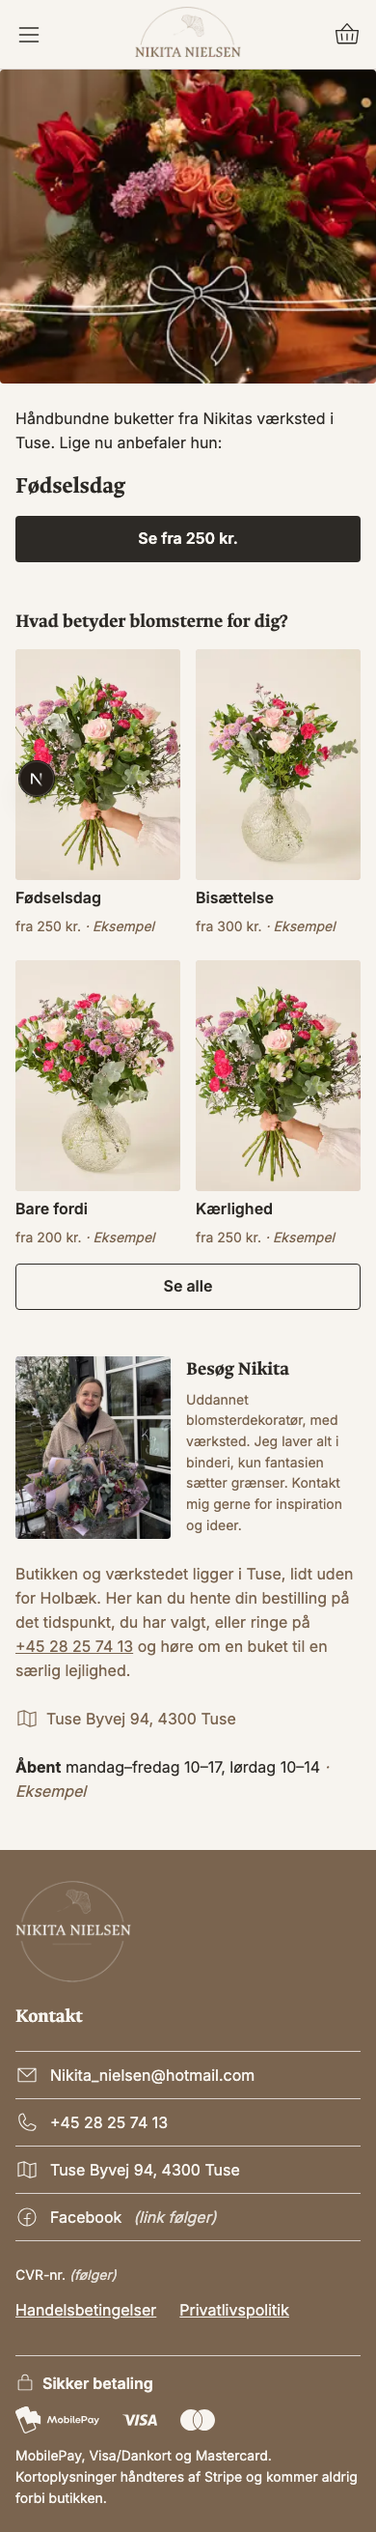
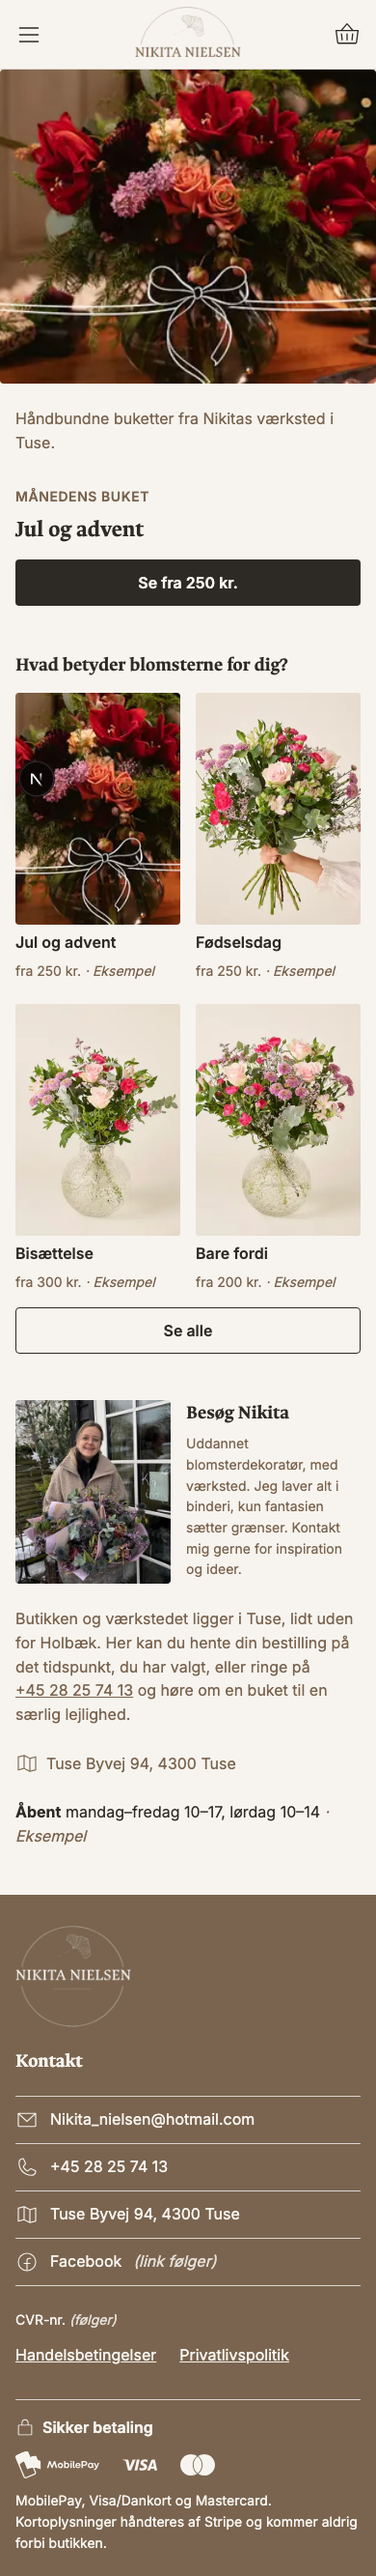
Recommend Jul og advent under a label; shop line on its own (DD-38); interview questions from the occasion-page explore

Changed region(s): [[0.0, 0.0, 1.0, 0.9889]]

diff --git a/backend/src/db/seed.ts b/backend/src/db/seed.ts
@@ -27,6 +27,8 @@ export const seedOccasions: {
   name: string;
   intro: string;
   prices: Record<Tier, number>;
+  /** Set where the position must not follow the list (added later). */
+  sortOrder?: number;
 }[] = [
   {
     slug: "fodselsdag",
@@ -57,6 +59,16 @@ export const seedOccasions: {
     name: "Tak",
     intro: "En buket som tak, i tre størrelser.",
     prices: { lille: 250, mellem: 350, stor: 500 },
+  },
+  // Added 27 Nov (Felix): the season's recommendation for December, first in
+  // the owner's order so the front page features it (DD-04 fallback) until
+  // she can choose in the back office (DD-23). Base prices, a placeholder.
+  {
+    slug: "jul-og-advent",
+    name: "Jul og advent",
+    intro: "Buketter til jul og advent i tre størrelser.",
+    prices: { lille: 250, mellem: 350, stor: 500 },
+    sortOrder: 5,
   },
 ];
 
@@ -94,7 +106,7 @@ export async function seed(db: Db) {
         name: o.name,
         intro: o.intro,
         description: commonDescription,
-        sortOrder: (i + 1) * 10,
+        sortOrder: o.sortOrder ?? (i + 1) * 10,
       })),
     )
     .onConflictDoNothing({ target: occasions.slug });

diff --git a/frontend/src/app/page.tsx b/frontend/src/app/page.tsx
@@ -39,14 +39,14 @@ export default async function Home() {
       </div>
 
       <section className={styles.featured} aria-labelledby="anbefaling">
-        {/* The page's main heading for search engines (P10), styled as the
-            plain intro line of the design. */}
+        {/* The page's main heading for search engines (P10), a quiet line of
+            its own; the recommendation is a separate group below (DD-38). */}
         <h1 className={styles.intro}>
-          Håndbundne buketter fra Nikitas værksted i Tuse. Lige nu anbefaler
-          hun:
+          Håndbundne buketter fra Nikitas værksted i Tuse.
         </h1>
         {featured && (
-          <>
+          <div className={styles.pick}>
+            <p className={styles.label}>Månedens buket</p>
             <h2 id="anbefaling" className={styles.featuredName}>
               {featured.name}
             </h2>
@@ -56,7 +56,7 @@ export default async function Home() {
             >
               Se fra {kroner(featured.fromPriceOere)}
             </Link>
-          </>
+          </div>
         )}
       </section>
 

diff --git a/frontend/src/app/page.module.css b/frontend/src/app/page.module.css
@@ -16,16 +16,37 @@
 .featured {
   display: flex;
   flex-direction: column;
-  gap: var(--space-2);
+  gap: var(--space-4);
   padding: var(--space-3) var(--page-inline) var(--space-6);
 }
 
 .intro {
-  color: var(--color-text);
+  color: var(--color-text-muted);
   font-family: var(--font-body);
   font-size: var(--text-base);
   font-weight: var(--weight-regular);
   line-height: var(--leading-body);
+}
+
+/* The recommendation as one group: label, name, button (DD-38, from
+   Felix's v2 frame). */
+.pick {
+  display: flex;
+  flex-direction: column;
+  gap: var(--space-1);
+}
+
+.label {
+  color: var(--color-text-muted);
+  font-size: var(--text-sm);
+  font-weight: var(--weight-semibold);
+  letter-spacing: 0.04em;
+  text-transform: uppercase;
+}
+
+.pick .primary,
+.pick .secondary {
+  margin-top: var(--space-1);
 }
 
 .featuredName {

diff --git a/backend/src/catalog/routes.test.ts b/backend/src/catalog/routes.test.ts
@@ -33,11 +33,11 @@ describe("GET /occasions", () => {
     expect(res.statusCode).toBe(200);
     expect(res.headers["cache-control"]).toContain("s-maxage=60");
     const { occasions: list } = res.json();
-    expect(list).toHaveLength(5);
+    expect(list).toHaveLength(6);
     expect(list[0]).toEqual({
-      slug: "fodselsdag",
-      name: "Fødselsdag",
-      intro: "Buketter til fødselsdagen i tre størrelser.",
+      slug: "jul-og-advent",
+      name: "Jul og advent",
+      intro: "Buketter til jul og advent i tre størrelser.",
       fromPriceOere: 25000,
       soldOut: false,
       placeholder: true,

diff --git a/backend/src/catalog/queries.test.ts b/backend/src/catalog/queries.test.ts
@@ -37,13 +37,14 @@ describe("listOccasions", () => {
   it("lists the seeded occasions in sort order with the lowest price", async () => {
     const list = await listOccasions(db);
     expect(list.map((o) => o.slug)).toEqual([
+      "jul-og-advent",
       "fodselsdag",
       "bisaettelse",
       "bare-fordi",
       "kaerlighed",
       "tak",
     ]);
-    expect(list[1]).toMatchObject({
+    expect(list[2]).toMatchObject({
       name: "Bisættelse",
       fromPriceOere: 30000,
       soldOut: false,

diff --git a/frontend/src/lib/stand-ins.ts b/frontend/src/lib/stand-ins.ts
@@ -24,6 +24,7 @@ const ORDER = ["fodselsdag", "bisaettelse", "bare-fordi", "kaerlighed", "tak"];
 
 /** A stand-in for an occasion's main photo, varied so the grid is not one picture. */
 export function standInFor(slug: string): StandIn {
+  if (slug === "jul-og-advent") return HERO_STAND_IN;
   const i = ORDER.indexOf(slug);
   return BOUQUETS[(i === -1 ? 0 : i) % BOUQUETS.length]!;
 }

diff --git a/frontend/e2e/home.spec.ts b/frontend/e2e/home.spec.ts
@@ -6,7 +6,7 @@ test("home page loads in Danish with the intro as its heading", async ({
   await page.goto("/");
   await expect(page.locator("html")).toHaveAttribute("lang", "da");
   await expect(page.getByRole("heading", { level: 1 })).toContainText(
-    "Håndbundne buketter fra Nikitas værksted i Tuse",
+    "Håndbundne buketter fra Nikitas værksted i Tuse.",
   );
 });
 

diff --git a/docs/process/2026-11-19-storefront.md b/docs/process/2026-11-19-storefront.md
@@ -104,3 +104,4 @@ Felix's education is design-oriented, so every key layout choice is his (CLAUDE.
   - The new text uses only given facts; the opening hours come from the back-office data, marked "Eksempel" like other placeholders. A small helper writes them in Danish ("mandag–fredag 10–17, lørdag 10–14"), with 3 tests.
   - Checked: 0 requests to Google before tapping "Vis kort", the map loads after; no horizontal scroll at 390 and 1280; the payment marks were first too small to read (MobilePay at 20 px) and were enlarged; the phone number in the new paragraph broke across lines and now stays together. 28 unit tests and 11 phone tests pass.
 - **Grouping, footer split, map out (27 Nov, DD-34 changed, DD-36, DD-37).** Felix: the recommendation lacked Gestalt grouping and ran on "until the about me section"; the about section still looked bulky; the footer should split with a bigger logo. Fixed by proximity alone (16 px inside a group, 48/64 px between groups), not by lines or panels; the map came out the same day it went in, the address moved above the opening hours on one line; the footer splits from tablet up (the phone keeps one column for the reason found with footer variant A on 23 Nov). The unused map component was deleted. Checked at 390 and 1280 px, no horizontal scroll; phone tests pass.
+- **"Jul og advent" and the text under the hero (27 Nov, DD-38).** Felix asked for the seasonal recommendation now and found the two lines under the hero awkward. "Jul og advent" did not exist; it joined the placeholder catalogue with base prices and sort order 5, ahead of the others, so the existing rows kept their order (two backend tests that listed five occasions were updated, not loosened, and the spec scenarios now say "every visible occasion"). Three ways to read the text were offered; Felix chose the label over the name from his v2 frame. The interview guide gained the two questions from the occasion-page explore (two bouquets to one recipient; colour and flower wishes), whether the card costs anything, and the chocolates (Felix knows she sells them).

diff --git a/docs/research/2026-11-27-owner-interview-guide.md b/docs/research/2026-11-27-owner-interview-guide.md
@@ -58,8 +58,10 @@ Ask with the screen or the slip in front of her, so the question has a concrete 
 | 5 | "Hvor mange afhentninger kan du have klar på én time?" | 4 per hour | Pickups per slot (8) |
 | 6 | "Hvilke anledninger sælger du mest til, og hvad koster de i lille, mellem og stor?" | 5 occasions, example prices | The occasion list and prices (4), the featured bouquet |
 | 7 | "Fortæl om de sidste tre bestillinger på Messenger: hvad spurgte kunden om, før de bestilte?" | Nothing | What the occasion page is missing |
-| 8 | "Hvad skriver folk på kortet, og hvor langt plejer det at være?" | 200 characters | The card-message limit |
-| 9 | "Når nogen ringer og bestiller: hvad spørger du om, og hvad sælger du ekstra? Til hvilken pris?" | No add-ons | The till screen fields, add-ons (11) |
+| 8 | "Hvad skriver folk på kortet, og hvor langt plejer det at være? Koster kortet noget?" | 200 characters, price unknown | The card-message limit; whether "+ Tilføj et kort" may say "gratis" |
+| 8a | "Hvis nogen bestiller to buketter på én gang, er det så til samme modtager?" | One delivery per cart, card per bouquet | Whether one delivery per cart holds; card and wishes per bouquet (decided 27 Nov) |
+| 8b | "Har du haft bestillinger, hvor kunden ønskede en bestemt farve eller ikke ville have en bestemt blomst? Hvad gjorde du?" | No wishes field | The "Ønsker til buketten" field and its wording |
+| 9 | "Når nogen ringer og bestiller: hvad spørger du om? Hvilke chokolader sælger du, og til hvilken pris? Sælger du andet ekstra?" | No add-ons (we know she sells chocolate) | The till screen fields, add-ons (11) |
 | 10 | "Hvornår har nogen sidst bestilt til et bryllup eller en fest? Hvordan foregik det?" | Not offered online | Large orders online or by phone (6) |
 | 11 | "Hvornår har nogen sidst villet bruge mere end den største størrelse?" | Three fixed tiers | A free amount above the top tier (5) |
 | 12 | "Hvilken printer har du, eller har du adgang til en?" | Slip as email | Print layout: A4 or 80 mm (9) |

diff --git a/docs/design-decisions.md b/docs/design-decisions.md
@@ -259,3 +259,9 @@ Date: 2026-11-27 · Principles: P11 · Evidence grade: B (Gestalt law of proximi
 Decision: Inside a group (the recommendation, the occasions, the visit) elements stay 16 px apart; between groups there are 48 px on the phone and 64 px from tablet up, so each reads as its own block. Before, the recommendation ran on into the occasions and the visit at nearly the same spacing as its own lines (Felix: "one long line that continues until the about me section").
 Rejected: dividing lines or panels (more elements, against the owner's wish for simple); keeping the spacing.
 Test: in the usability test, ask what the front page offers; do people name the recommendation, the occasions and the shop as separate things?
+
+### DD-38 The recommendation: "Jul og advent" under a label, the shop line on its own
+Date: 2026-11-27 · Principles: P11, DD-22, DD-37 (grouping) · Evidence grade: C (opinion: Felix; the label comes from his v2 frame)
+Decision: Under the hero, the shop sentence "Håndbundne buketter fra Nikitas værksted i Tuse." stands alone as a quiet Sand line (still the page's h1 for search engines). Below it, as one group: a small label "MÅNEDENS BUKET", the bouquet's name and the button with the price. "Lige nu anbefaler hun:" is gone; it tied two unrelated lines together (Felix: "two different lines of text that just kind of are there"). The recommended bouquet is now "Jul og advent", added to the placeholder catalogue first in the owner's order (DD-04 fallback until she chooses in the back office, DD-23), with the Christmas stand-in photo.
+Replaces: DD-22's lead-in ("Lige nu anbefaler hun:").
+Rejected: one sentence leading into the name with the shop line moved to "Besøg Nikita"; only the shop sentence with the recommendation as the first card.

diff --git a/openspec/changes/storefront/specs/storefront/spec.md b/openspec/changes/storefront/specs/storefront/spec.md
@@ -24,7 +24,7 @@ The category page at `/anledninger` SHALL list every visible occasion in the sam
 
 #### Scenario: See all
 - **WHEN** a visitor taps "Se alle"
-- **THEN** the category page lists all five occasions
+- **THEN** the category page lists every visible occasion (six in the placeholder catalogue)
 
 ### Requirement: Delivery facts are easy to find
 The delivery fee, the delivery area, the same-day cut-off and that pickup is possible SHALL be stated in plain words, read from the delivery rules, on the occasion page with the delivery choice (P3, DD-14). The fee SHALL be shown as soon as a postcode is entered, before anything is added to the cart. The front page does not carry them.
@@ -119,7 +119,7 @@ Every page SHALL have its own Danish title and description. The site SHALL serve
 
 #### Scenario: Sitemap
 - **WHEN** a crawler fetches `/sitemap.xml`
-- **THEN** it lists the front page, the category page and the five occasion pages, and not the cart, checkout, order or status pages
+- **THEN** it lists the front page, the category page and every visible occasion page, and not the cart, checkout, order or status pages
 
 #### Scenario: Product data
 - **WHEN** a crawler reads an occasion page
